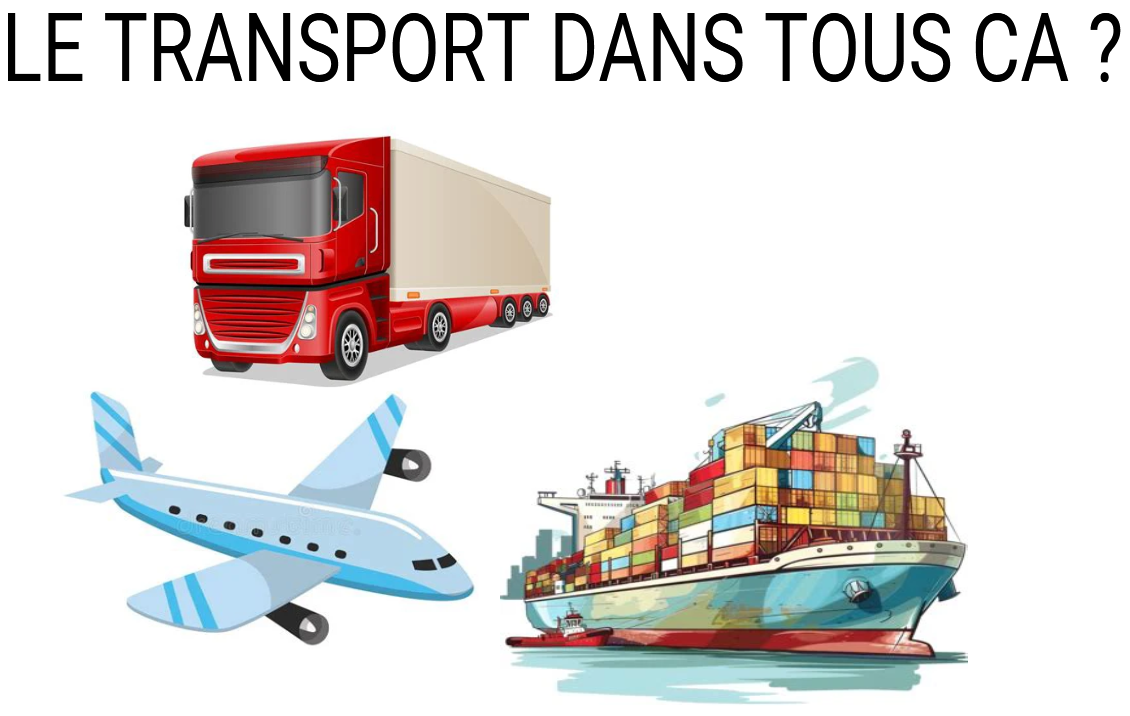
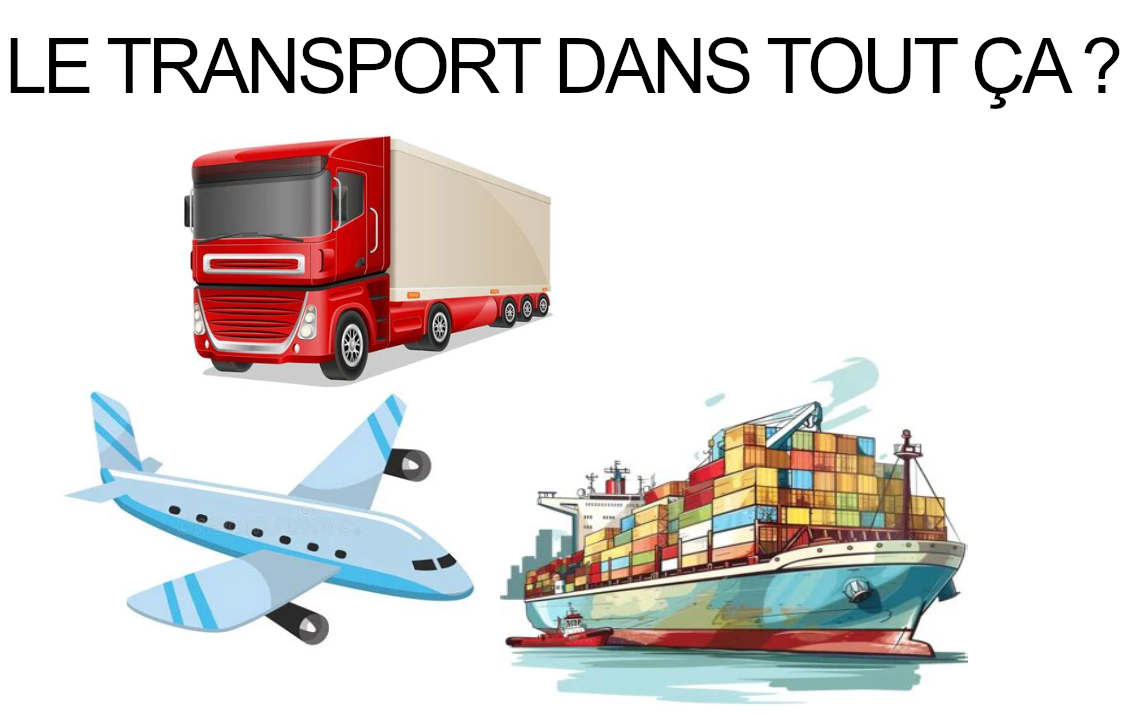
édition finale (je crois)

Changed region(s): [[0.0, 0.0, 0.9912, 0.1536]]

diff --git a/index.html b/index.html
@@ -39,7 +39,7 @@
 					l’environnement et le bien être animal.
 				</div>
 				<br>
-				<a href="">Questionnaire</a>
+				<a href="https://freeonlinesurveys.com/s/Uxv5X3Y7">Questionnaire</a>
 			</div>
 			<table class="plusmain">
 				<tr>